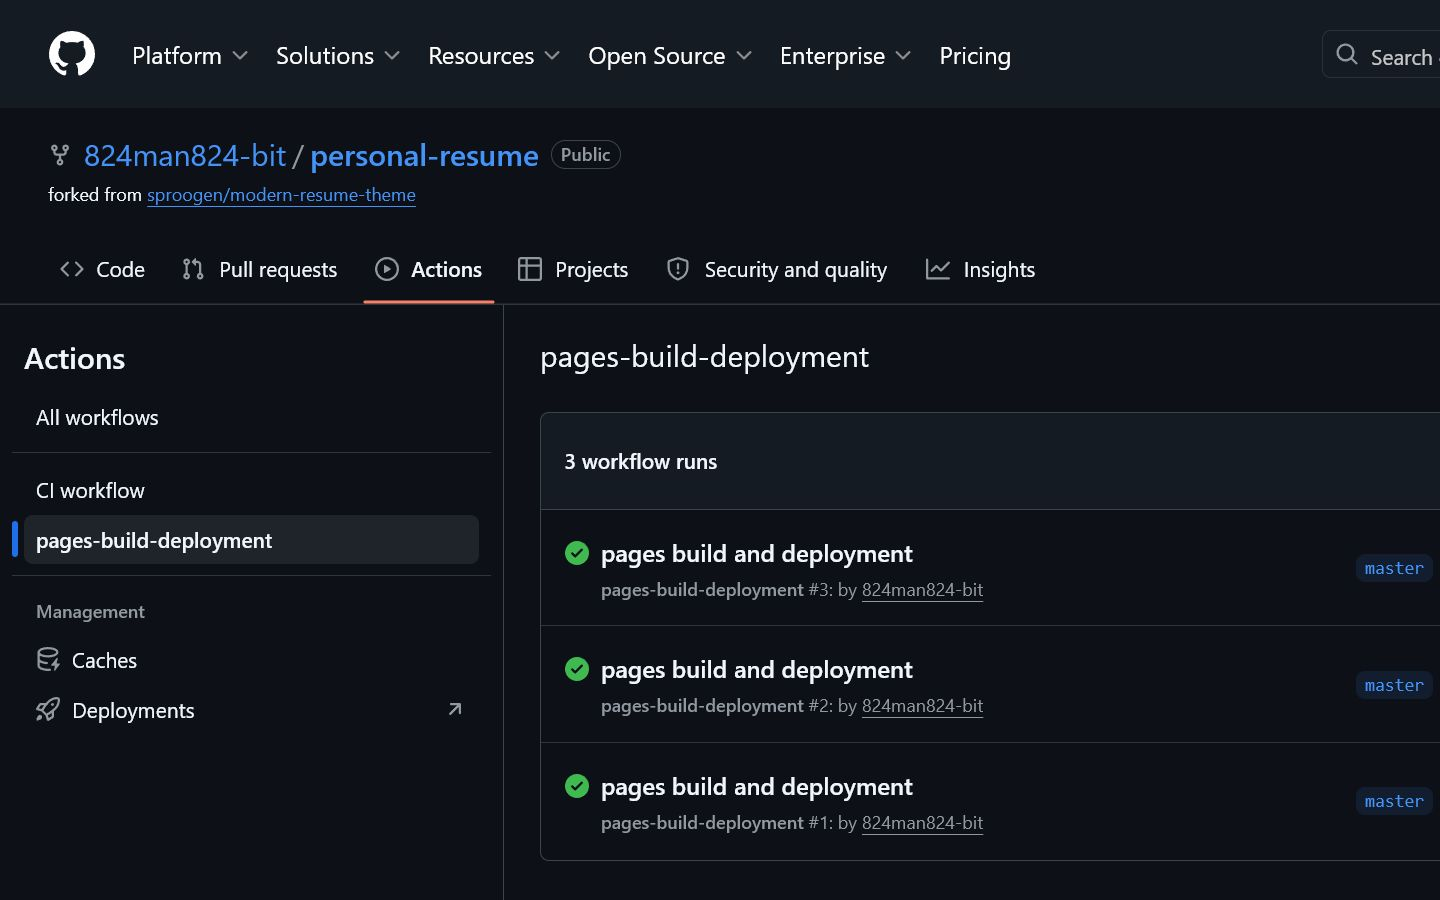
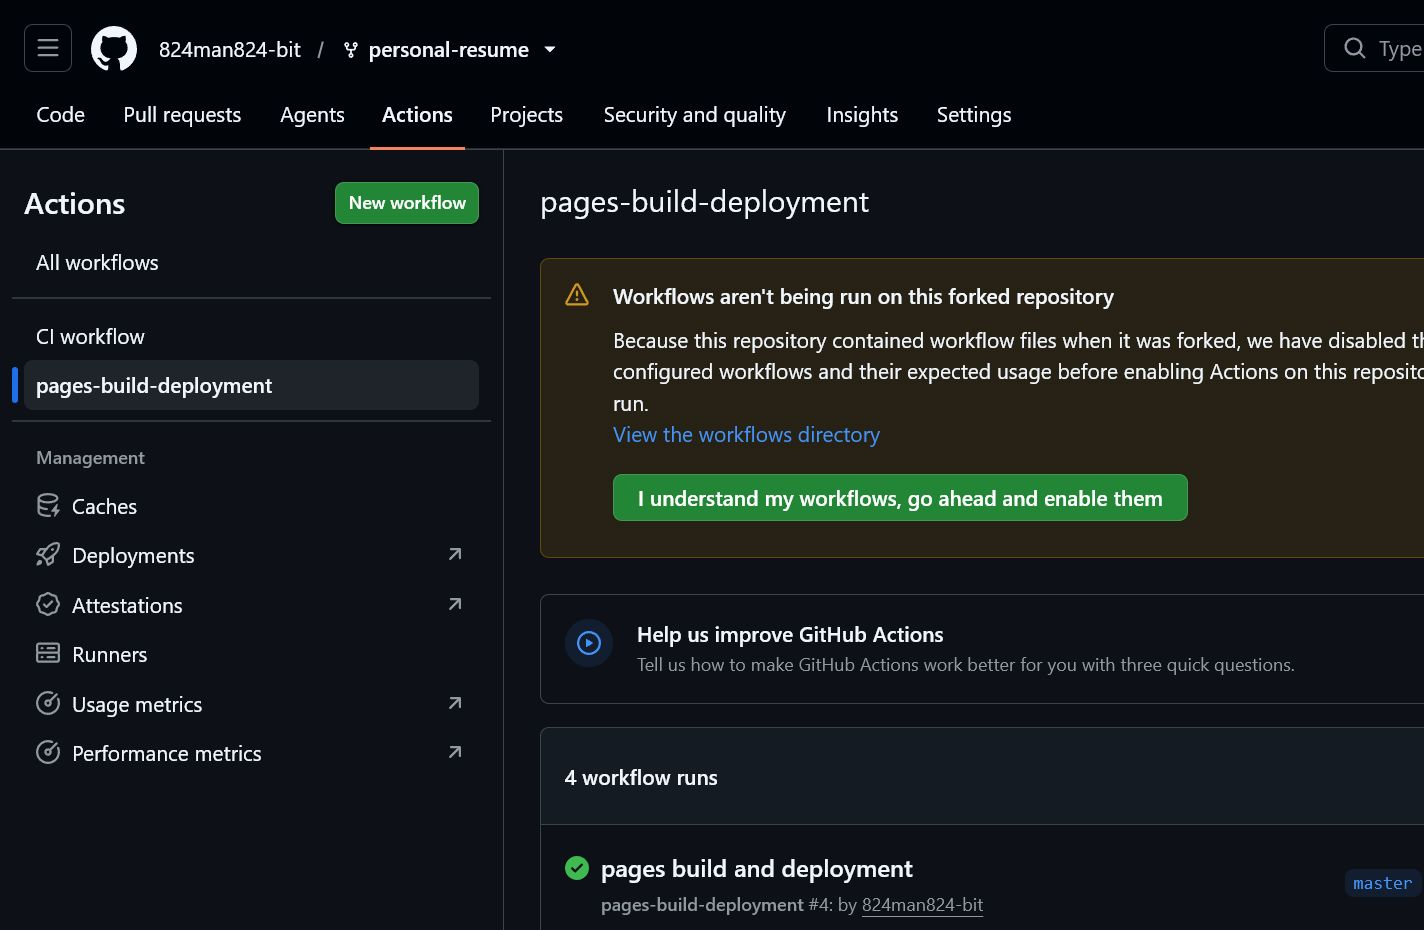
docs: 记录最终推送与部署结果

diff --git a/docs/progress.md b/docs/progress.md
@@ -6,14 +6,14 @@
 - 当前阶段：最终 Harness、验收证据、报告与 Git 交付
 - 当前分支：`master`
 - 远程分支：`origin/master`
-- 阶段状态：线上桌面与手机验收已完成，最终报告与截图证据已生成；最终提交已创建并验证为第 4 次个人提交，等待纳入 Checklist 截图、推送及推送后 Pages 构建复核
+- 阶段状态：最终 Harness、四张证据截图、报告、README、Checklist、至少 4 次个人提交、最终推送与推送后 Pages 复核均已完成
 
 ## 最终 Harness 阶段完成事项
 
 - 按交接要求完整读取 `docs/progress.md`、`docs/prd.md`、`docs/design.md`、`docs/checklist.md`、当前文件树、Git 状态和最近提交；确认交接记录存在，且干净的 `master...origin/master` 与记录一致。
 - 在公开 GitHub Pages 地址执行最终 Harness，分别使用 `1440 × 900` 桌面视口和 `375 × 812` 手机视口检查 Hero、About、Skills、Projects、Contact 五个区块、页内导航、项目入口、GitHub 入口、文字、头像和横向溢出。
 - 生成 `screenshots/homepage-desktop.png`、`screenshots/homepage-mobile.png` 与 `screenshots/github-pages.png`；`screenshots/checklist.png` 在最终提交计数复核后生成。
-- 打开公开 Actions 工作流页面，确认 `pages-build-deployment` 最近 3 次运行均成功；Run `#3` 耗时 40 秒，Run `#2` 与 `#1` 均耗时 41 秒。
+- 打开公开 Actions 工作流页面，确认最终验收提交触发的 `pages-build-deployment #4` 成功，耗时 46 秒；此前 Run `#3` 耗时 40 秒，Run `#2` 与 `#1` 均耗时 41 秒。
 - 扫描发布内容中的模板占位词和敏感值；清除 Footer 中未启用分支仍保留的 `References on request` 默认占位短语。
 - 创建 `report/final-report.md`，记录网站定位、模板选择、AI 参与、个人判断、验证、问题修复、Pages 链接与后续计划。
 - 更新 `README.md`，补充已发布状态、最终报告、验收文档与截图证据入口，并修正“头像仍待处理”的过期描述。
@@ -45,6 +45,8 @@
 - 本阶段发布文件占位词复扫无命中，敏感值复扫无命中；目录完整性检查通过。
 - 单文件大小扫描覆盖已跟踪文件和本阶段交付文件；最大文件为模板原有 `screenshot.png`，大小 `721,118` 字节，未发现异常大文件。
 - 已创建最终提交 `docs: 完成验收证据和最终报告`；`git log --format='%h %s' 8901c8b..HEAD` 可见 4 次个人提交，满足作业提交数量要求。
+- 最终验收提交 `2267107` 已推送至 `origin/master`；GitHub Pages Run `#4`（`30094588020`）成功，耗时 46 秒。
+- 推送后再次打开公开首页，五个区块与标题层级正常，头像完整加载为 `400 × 500`，页面无横向溢出，控制台仍无 warning 或 error。
 
 ## 最终 Harness 阶段用户确认的决定
 
@@ -58,13 +60,13 @@
 - 自动化浏览器无法证明 Enter 激活原生链接；对应 Checklist 项保持未勾选，建议在普通浏览器中手工复核。
 - 当前系统只有深色偏好，无法在本次浏览器控制能力内完整切换并目视验证浅色模式及浅色/深色按钮三态；相关 Checklist 项保持未勾选。
 - 当前浏览器控制能力无法关闭 CSS 后重新目视检查纯文档顺序；对应 Checklist 项保持未勾选。
-- 当前仍需将 `screenshots/checklist.png` 与最终提交计数记录 amend 到同一最终提交，并完成推送及推送后 Pages 复核。
+- 除下列缺少工具证据的三项外，没有阻塞发布或作业交付的遗留问题。
 
 ## 最终 Harness 阶段下一步任务
 
-1. 生成最终 Checklist 截图，将提交计数证据与截图 amend 到同一最终提交。
-2. 再次执行仓库扫描、`git diff --check` 与目录完整性检查。
-3. 推送 `master` 至 `origin/master`，等待 Pages 工作流完成并确认公开站点继续可用。
+1. 如需完成全部 Checklist，在普通浏览器中手工复核 Enter 激活链接。
+2. 在可切换系统外观的环境中目视复核浅色/深色按钮默认、悬停与焦点状态。
+3. 在浏览器开发工具中关闭 CSS，复核纯文档阅读顺序。
 
 ## 阶段概况
 

diff --git a/docs/checklist.md b/docs/checklist.md
@@ -99,7 +99,7 @@
 
 - 桌面全页证据：`screenshots/homepage-desktop.png`；请求视口 `1440 × 900`，内容区与 `scrollWidth` 均为 `1425px`。
 - 手机全页证据：`screenshots/homepage-mobile.png`；请求视口 `375 × 812`，内容区与 `scrollWidth` 均为 `360px`。
-- Pages 证据：`screenshots/github-pages.png`；公开工作流页面显示最近 3 次 `pages-build-deployment` 均成功。
+- Pages 证据：`screenshots/github-pages.png`；公开工作流页面显示最近 4 次 `pages-build-deployment` 均成功，最终验收提交对应 Run `#4` 用时 46 秒。
 - 清单证据：`screenshots/checklist.png`；在最终提交计数复核后生成。
 - Git 证据：最终提交 `docs: 完成验收证据和最终报告` 创建后，`8901c8b..HEAD` 可见 4 次个人提交；Checklist 截图已 amend 到同一最终提交。
 - 本阶段复验确认五个区块、导航、项目入口、GitHub 属性、文字、头像和横向溢出符合预期，公开首页控制台无 warning 或 error。
